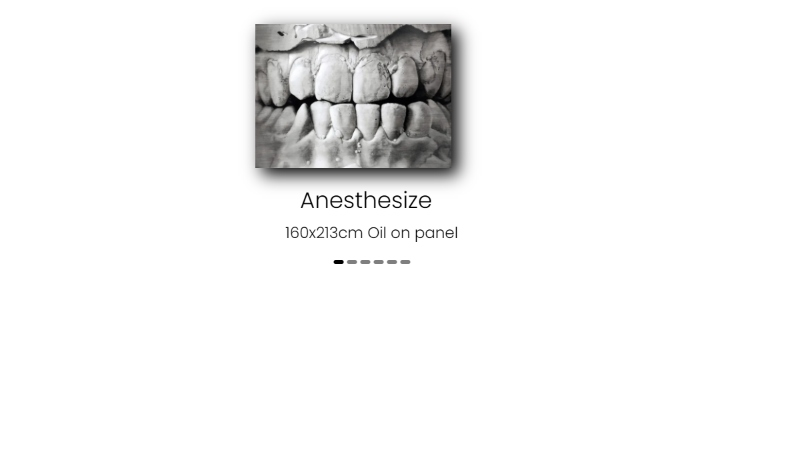
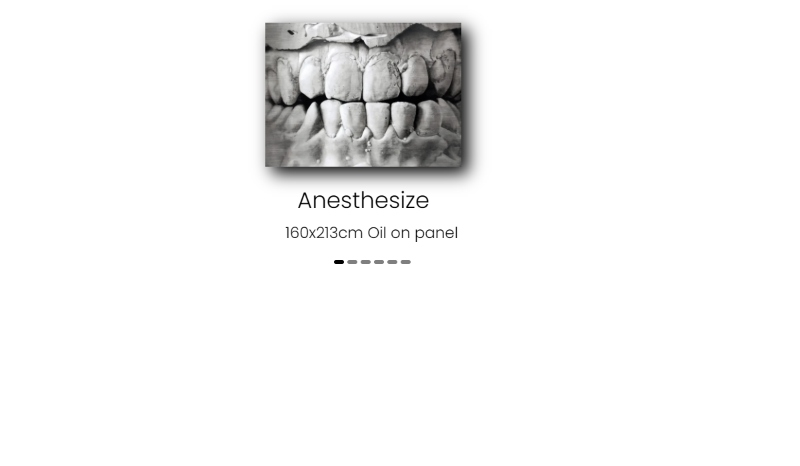
paintings style

Changed region(s): [[0.3125, 0.03, 0.625, 0.3906], [0.375, 0.3906, 0.5625, 0.4506]]

diff --git a/wp-content/themes/NiekHendrix/style.css b/wp-content/themes/NiekHendrix/style.css
@@ -1,8 +1,11 @@
+
 @import url("https://fonts.googleapis.com/css2?family=Poppins:ital,wght@0,100;0,200;0,300;0,400;0,500;0,600;0,700;0,800;0,900;1,100;1,200;1,300;1,400;1,500;1,600;1,700;1,800;1,900&display=swap");
 * {
   font-family: Poppins, sans-serif;
 }
-
+/* body{
+  background-color: #D3D9D4;
+} */
 /* Navbar */
 
 .menu a {
@@ -32,10 +35,10 @@
 }
 
 /* MEDID*/
-h1{
+h1 {
   justify-content: center;
   display: flex;
-  
+
   text-align: center;
   /* font-family: cursive;
   font-size: 40px;
@@ -53,7 +56,7 @@ h1{
   margin: 20px auto;
   gap: 20px;
   width: 60%;
-  background-color: #f9f9f9;
+  background-color: #ffffff;
   border-radius: 15px;
   box-shadow: 0px 6px 25px rgba(0, 0, 0, 0.1);
   padding: 20px;
@@ -63,13 +66,13 @@ h1{
   list-style: none;
 }
 .media li a {
-  color: #555;
+  color: #124e66;
   text-decoration: none;
   transition: color 0.3s ease;
 }
 
 .media li a:hover {
-  color: #388e3c;
+  color: #748d92;
 }
 
 .media .wp-block-heading {
@@ -79,76 +82,97 @@ h1{
   font-size: 36px;
   font-weight: bold;
   margin-top: 20px;
-  color: #388e3c;
+  color: #124e66;
   text-shadow: 1px 1px 3px rgba(0, 0, 0, 0.1);
 }
+.media figure {
+  position: relative;
+  width: 60%;
+  max-width: 800px;
+  margin: 20px auto;
+  border-radius: 10px;
+  box-shadow: 0 4px 15px rgba(0, 0, 0, 0.2);
+  overflow: hidden;
+  background-color: #000;
+  height: auto;
+  display: block;
+  border-radius: 20px;
+}
+.row {
+  display: flex;
+  justify-content: center;
+  align-items: center;
+  gap: 20px;
+  flex-wrap: wrap;
+}
+img .wp-image-248 {
+  width: 250px;
+  height: 250px;
+  /* border-radius: 8px; */
+}
+#menu-menu {
+  display: flex;
+  justify-content: center;
+  align-items: center;
+  list-style: none;
+  gap: 25px;
+  margin-top: 50px;
+}
 
-.row{
-    display: flex;
-    justify-content: center;
-    align-items: center;
-    gap: 20px;
-    flex-wrap: wrap;
-    
+#menu-menu li {
+  font-size: larger;
+  background-color: #6c7371;
+  padding: 8px 10px;
+  border-radius: 5px;
+  box-shadow: 0 4px 6px rgba(0, 0, 0, 0.1);
+  transition: background-color 0.3s, transform 0.3s, box-shadow 0.3s;
 }
-img .wp-image-248{
-    width: 250px;
-    height: 250px;
-    /* border-radius: 8px; */
+
+#menu-menu li:hover {
+  background-color: #5a625e;
+  transform: translateY(-5px);
+  box-shadow: 0 8px 12px rgba(0, 0, 0, 0.2);
 }
-#menu-menu{
-    display: flex;
-    justify-content: center;
-    align-items: center;
-    list-style: none;
-    gap: 25px;
-    margin-top: 50px;
-  }
+
+#menu-menu li a {
+  text-decoration: none;
+  color: white;
+  transition: color 0.3s;
+}
+
+#menu-menu li a:hover {
+  color: #f0f0f0;
+}
+
+
+.figure img {
+  width: 250px;
+  height: 250px;
+  border-radius: 8px;
   
-  #menu-menu li {
-    font-size: larger;
-    background-color: #6c7371;
-    padding: 8px 10px;
-    border-radius: 5px;
-    box-shadow: 0 4px 6px rgba(0, 0, 0, 0.1);
-    transition: background-color 0.3s, transform 0.3s, box-shadow 0.3s;
-  }
-  
-  #menu-menu li:hover {
-    background-color: #5a625e;
-    transform: translateY(-5px);
-    box-shadow: 0 8px 12px rgba(0, 0, 0, 0.2);
-  }
-  
-  #menu-menu li a {
-    text-decoration: none;
-    color: white;
-    transition: color 0.3s;
-  }
-  
-  #menu-menuli a:hover {
-    color: #f0f0f0;
+}
+.figure img:hover  {
+  transform: scale(1.1);
+  transition: transform 0.5s;
+  /* transform: scale(1.5); */
+}
+.test p {
+display: none;
+}
+.figure img:hover .test p {
+  display: block;
+  color: #124e66;
   }
 
-  .figure img{
-    width:250px;
-    height: 250px;
-    border-radius: 8px;
-}
-.figure img:hover{
-    transform: scale(1.1);
-    transition: transform 0.5s;
-    /* transform: scale(1.5); */
-}
-.Paintings{
+
+
+.Paintings {
   font-family: Arial, sans-serif;
   font-size: 16px;
   line-height: 1.5;
   color: #333;
   margin: 10px 0;
   background-color: #f0f0f0;
-    padding: 10px;
-    border-left: 5px solid #ccc;
+  padding: 10px;
+  border-left: 5px solid #ccc;
 }
-
-/* media */

diff --git a/wp-content/themes/NiekHendrix/archive.php b/wp-content/themes/NiekHendrix/archive.php
@@ -1,21 +1,21 @@
-<!-- هذ التصميم لعرض صفحة قائمة بوستات يعني لعرض اللوحات الموجودة مثلا في سنة 2014 او اللوحات الموجودة في سنة 2015 -->
 <?php get_header(); ?>
 
 <div class="container pt-5 pb-5">
-<?php wp_nav_menu( array( 'theme_location' => 'menu', 'menu_class' => 'categories-filter' ) ); ?>
+    <?php wp_nav_menu(array('theme_location' => 'menu', 'menu_class' => 'categories-filter')); ?>
     <h1><?php single_cat_title(); ?></h1>
 
     <div class="row">
         <?php if (have_posts()):
             while (have_posts()):
                 the_post(); ?>
-                
-                <div class="figure">
-                <h3><?php the_title() ?></h3>
-                <?php if (the_content()): ?>
-                    <img src="<?php the_content(); ?>" class="figure-img img-fluid rounded" >
-                    <?php endif; ?>
-                    <!-- <figcaption class="figure-caption">A caption for the above image.</figcaption> -->
+
+                <div class="figure test">
+                    <h3><?php the_title() ?></h3>
+                    <?php if (the_content()): ?>
+                                                    <img src="<?php the_content(); ?>" class="figure-img img-fluid rounded">
+                        <?php endif; ?>
+                        <!-- <figcaption class="figure-caption">A caption for the above image.</figcaption> -->
+                    
                 </div>
             <?php endwhile; endif; ?>
     </div>

diff --git a/wp-content/themes/NiekHendrix/functions.php b/wp-content/themes/NiekHendrix/functions.php
@@ -1,4 +1,3 @@
-
 <?php
 
 
@@ -50,3 +49,13 @@ function load_stylesheets()
     );
 
     add_action('wp_enqueue_scripts', 'load_scripts');
+// ..............................
+function add_class_to_paragraphs($content) {
+    // Check if we are in a single post
+    if (is_single()) {
+        // Add the desired class to all <p> tags in the post content
+        $content = str_replace('<p>', '<p class="your-class">', $content);
+    }
+    return $content;
+}
+add_filter('the_content', 'add_class_to_paragraphs');
